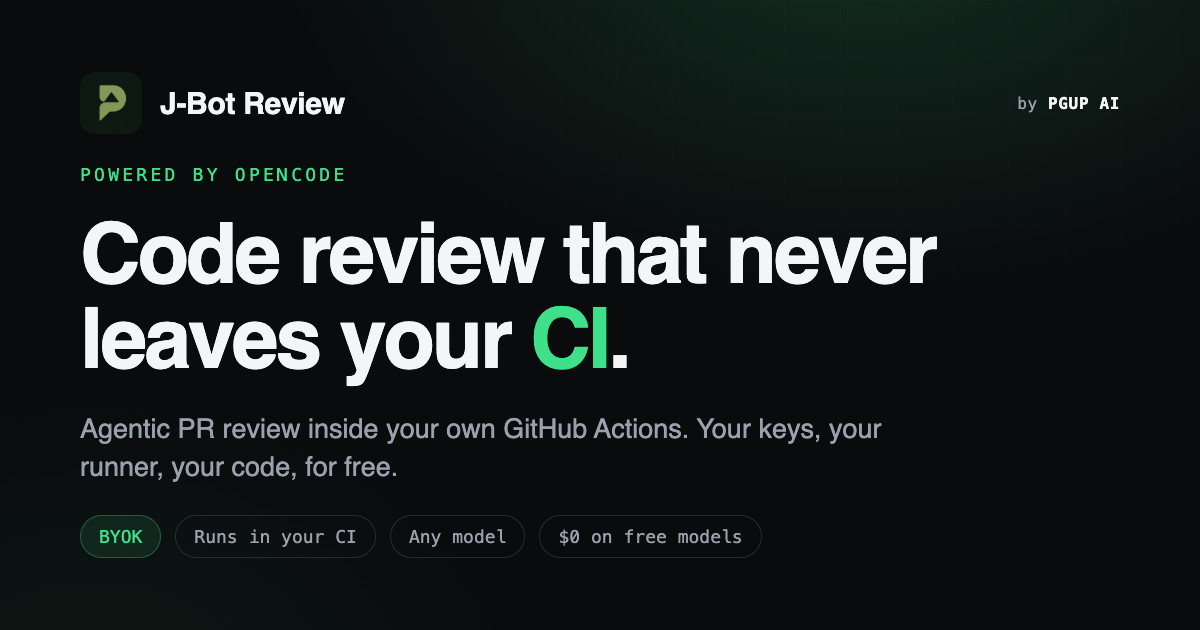
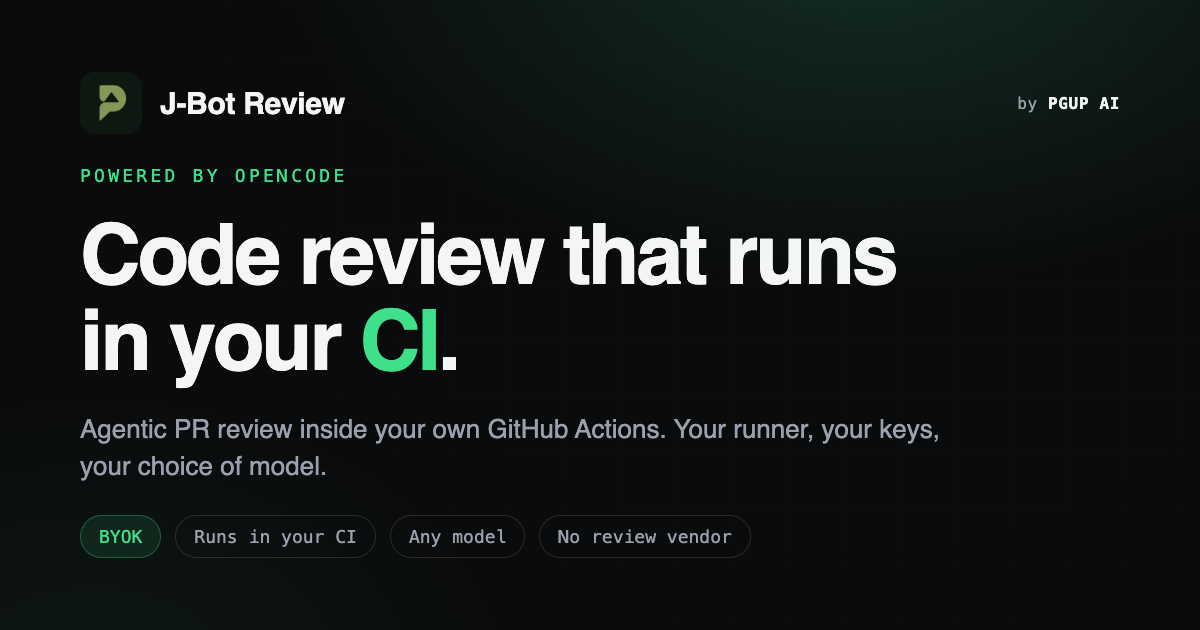
Accuracy: the diff is sent to the model provider you choose; drop overstated 'never leaves your infra' claims; regenerate OG card

diff --git a/index.html b/index.html
@@ -3,8 +3,8 @@
 <head>
 <meta charset="utf-8" />
 <meta name="viewport" content="width=device-width, initial-scale=1" />
-<title>J-Bot Review: AI code review that never leaves your CI</title>
-<meta name="description" content="An agentic PR reviewer that runs inside your own GitHub Actions, on your own keys. Your code never leaves your infrastructure. Powered by OpenCode, with free models that can make review cost nothing." />
+<title>J-Bot Review: AI code review that runs in your CI</title>
+<meta name="description" content="An agentic PR reviewer that runs inside your own GitHub Actions, on your own keys. No third-party review service in the middle; the diff goes only to the model provider you choose. Powered by OpenCode, with free models that can make review cost nothing." />
 <meta name="color-scheme" content="dark" />
 <meta name="theme-color" content="#0a0b0d" />
 
@@ -19,16 +19,16 @@
 <meta property="og:type" content="website" />
 <meta property="og:url" content="https://www.pgupai.com/" />
 <meta property="og:site_name" content="J-Bot Review" />
-<meta property="og:title" content="J-Bot Review: AI code review that never leaves your CI" />
-<meta property="og:description" content="Agentic PR review inside your own GitHub Actions. Your keys, your runner, your code. Powered by OpenCode." />
+<meta property="og:title" content="J-Bot Review: AI code review that runs in your CI" />
+<meta property="og:description" content="Agentic PR review inside your own GitHub Actions. Your runner, your keys, your choice of model. Powered by OpenCode." />
 <meta property="og:image" content="https://www.pgupai.com/assets/og.png" />
 <meta property="og:image:width" content="1200" />
 <meta property="og:image:height" content="630" />
 
 <!-- Twitter -->
 <meta name="twitter:card" content="summary_large_image" />
-<meta name="twitter:title" content="J-Bot Review: AI code review that never leaves your CI" />
-<meta name="twitter:description" content="Agentic PR review inside your own GitHub Actions. Your keys, your runner, your code. Powered by OpenCode." />
+<meta name="twitter:title" content="J-Bot Review: AI code review that runs in your CI" />
+<meta name="twitter:description" content="Agentic PR review inside your own GitHub Actions. Your runner, your keys, your choice of model. Powered by OpenCode." />
 <meta name="twitter:image" content="https://www.pgupai.com/assets/og.png" />
 
 <style>
@@ -506,8 +506,8 @@
   <div class="wrap hero-grid">
     <div class="hero-copy">
       <span class="brand-strip">Powered by <b>OpenCode</b></span>
-      <h1>Code review that never leaves your <span class="grad">CI</span>.</h1>
-      <p class="lede">An agentic PR reviewer that runs inside your own GitHub Actions, on your keys. Your code never leaves your infrastructure.</p>
+      <h1>Code review that runs in your <span class="grad">CI</span>.</h1>
+      <p class="lede">An agentic PR reviewer that runs in your own GitHub Actions, on your own keys. No review vendor in the middle.</p>
       <div class="hero-cta">
         <a class="btn btn-primary" href="#setup">
           <svg viewBox="0 0 24 24" fill="none" stroke="currentColor" stroke-width="2" stroke-linecap="round" stroke-linejoin="round" aria-hidden="true"><path d="M5 12h14M12 5l7 7-7 7"/></svg>
@@ -543,7 +543,7 @@
         <span class="k">with</span>:
           <span class="k">opencode-api-key</span>: <span class="s">${{ secrets.OPENCODE_API_KEY }}</span>
           <span class="k">github-token</span>: <span class="s">${{ secrets.GITHUB_TOKEN }}</span>
-<span class="c"># your runner. your key. your code stays put.</span></pre>
+<span class="c"># your runner. your key. the model you choose.</span></pre>
       </div>
     </div>
   </div>
@@ -579,7 +579,7 @@
     <div class="section-head reveal">
       <p class="eyebrow">How it works</p>
       <h2>One file of setup. Zero servers to run.</h2>
-      <p>J-Bot Review ships as a Docker container action. GitHub pulls the image into your own runner, drives a read-only review over your checkout, and posts back. Nothing is sent to a vendor.</p>
+      <p>J-Bot Review ships as a Docker container action. GitHub pulls the image into your own runner, drives a read-only review over your checkout, and posts back. The diff goes only to the model provider you bring, never to a third-party review service.</p>
     </div>
 
     <div class="steps">
@@ -610,7 +610,7 @@
   <div class="wrap">
     <div class="section-head reveal">
       <h2>Enterprise-grade review. Zero <span style="white-space:nowrap">lock-in.</span></h2>
-      <p>Everything below runs on infrastructure you already own. No third-party servers, no data leaving your perimeter, no per-seat bill.</p>
+      <p>Everything below runs on infrastructure you already own, with the model provider you choose. No third-party review service, no per-seat bill.</p>
     </div>
 
     <div class="bento">
@@ -618,7 +618,7 @@
       <div class="cell c-byok reveal">
         <div class="ic" aria-hidden="true"><svg viewBox="0 0 24 24" fill="none" stroke="currentColor" stroke-width="2" stroke-linecap="round" stroke-linejoin="round"><path d="M21 2l-2 2m-7.61 7.61a5.5 5.5 0 1 1-7.78 7.78 5.5 5.5 0 0 1 7.78-7.78zm0 0L15.5 7.5m0 0l3 3L22 7l-3-3"/></svg></div>
         <h3>Your keys, your runner</h3>
-        <p>You bring the provider API key as a repo secret. The review executes inside your GitHub Actions runner, never on a vendor's machine. The code stays where it already lives.</p>
+        <p>You bring the provider API key as a repo secret. The review runs inside your GitHub Actions runner and sends the diff only to the model provider you chose, on your own account, not a separate review vendor.</p>
       </div>
 
       <!-- FREE -->
@@ -634,7 +634,7 @@
       <div class="cell c-native reveal">
         <div class="ic" aria-hidden="true"><svg viewBox="0 0 24 24" fill="none" stroke="currentColor" stroke-width="2" stroke-linecap="round" stroke-linejoin="round"><path d="M16 18l6-6-6-6M8 6l-6 6 6 6"/></svg></div>
         <h3>Native to GitHub CI</h3>
-        <p>A standard container action. No webhooks to a vendor, no SaaS account, no data exfiltration.</p>
+        <p>A standard container action running in your own CI. No third-party review service and no SaaS account to sign up for.</p>
       </div>
 
       <!-- FLEXIBILITY -->
@@ -682,14 +682,14 @@
     <div class="section-head reveal" style="max-width:720px">
       <p class="eyebrow">Ownership and cost</p>
       <h2>A reviewer you own, not a service you rent.</h2>
-      <p>Hosted AI reviewers upload your diff to their cloud and bill per seat. J-Bot Review keeps the entire loop on your side of the wire.</p>
+      <p>Hosted AI reviewers upload your diff to their own cloud and bill per seat. J-Bot Review runs on your runner and sends the diff only to the model provider you already trust.</p>
     </div>
 
     <div class="compare">
       <div class="col theirs reveal">
         <div class="col-head"><h3>Hosted SaaS reviewers</h3><span class="tag">rented</span></div>
         <ul>
-          <li><svg class="m" viewBox="0 0 24 24" fill="none" stroke="currentColor" stroke-width="2.2" stroke-linecap="round"><path d="M18 6 6 18M6 6l12 12"/></svg>Your code is uploaded to a vendor's servers to be reviewed.</li>
+          <li><svg class="m" viewBox="0 0 24 24" fill="none" stroke="currentColor" stroke-width="2.2" stroke-linecap="round"><path d="M18 6 6 18M6 6l12 12"/></svg>Your code is uploaded to the review vendor's own servers and model.</li>
           <li><svg class="m" viewBox="0 0 24 24" fill="none" stroke="currentColor" stroke-width="2.2" stroke-linecap="round"><path d="M18 6 6 18M6 6l12 12"/></svg>Per-seat pricing that scales with your team, not your usage.</li>
           <li><svg class="m" viewBox="0 0 24 24" fill="none" stroke="currentColor" stroke-width="2.2" stroke-linecap="round"><path d="M18 6 6 18M6 6l12 12"/></svg>Locked to the models the vendor chose for you.</li>
           <li><svg class="m" viewBox="0 0 24 24" fill="none" stroke="currentColor" stroke-width="2.2" stroke-linecap="round"><path d="M18 6 6 18M6 6l12 12"/></svg>Closed pipeline you cannot read, audit, or fork.</li>
@@ -699,7 +699,7 @@
       <div class="col ours reveal">
         <div class="col-head"><h3>J-Bot Review</h3><span class="tag">owned</span></div>
         <ul>
-          <li><svg class="m" viewBox="0 0 24 24" fill="none" stroke="currentColor" stroke-width="2.4" stroke-linecap="round" stroke-linejoin="round"><path d="M20 6 9 17l-5-5"/></svg>Runs in your runner. The diff never leaves your infrastructure.</li>
+          <li><svg class="m" viewBox="0 0 24 24" fill="none" stroke="currentColor" stroke-width="2.4" stroke-linecap="round" stroke-linejoin="round"><path d="M20 6 9 17l-5-5"/></svg>Runs in your runner. The diff goes only to the model provider you pick, on your key.</li>
           <li><svg class="m" viewBox="0 0 24 24" fill="none" stroke="currentColor" stroke-width="2.4" stroke-linecap="round" stroke-linejoin="round"><path d="M20 6 9 17l-5-5"/></svg>Free on OpenCode models, or about $0.01 per review on paid tiers.</li>
           <li><svg class="m" viewBox="0 0 24 24" fill="none" stroke="currentColor" stroke-width="2.4" stroke-linecap="round" stroke-linejoin="round"><path d="M20 6 9 17l-5-5"/></svg>Any provider, any model. Swap with one repo variable.</li>
           <li><svg class="m" viewBox="0 0 24 24" fill="none" stroke="currentColor" stroke-width="2.4" stroke-linecap="round" stroke-linejoin="round"><path d="M20 6 9 17l-5-5"/></svg>Open action you can pin, audit, and self-host anywhere.</li>
@@ -804,7 +804,7 @@
           </span>
           <span class="wm"><b>J-Bot</b> Review</span>
         </a>
-        <p>An agentic PR reviewer built on OpenCode. Your keys, your runner, your code.</p>
+        <p>An agentic PR reviewer built on OpenCode. Your runner, your keys, your choice of model.</p>
         <p class="by">A <strong>PGUP AI</strong> project.</p>
       </div>
 